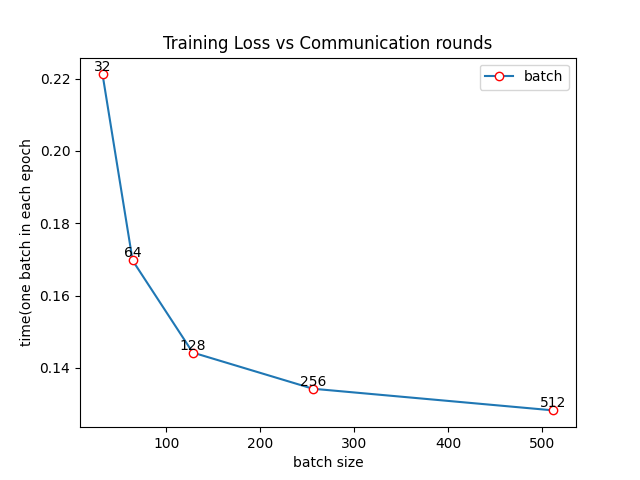
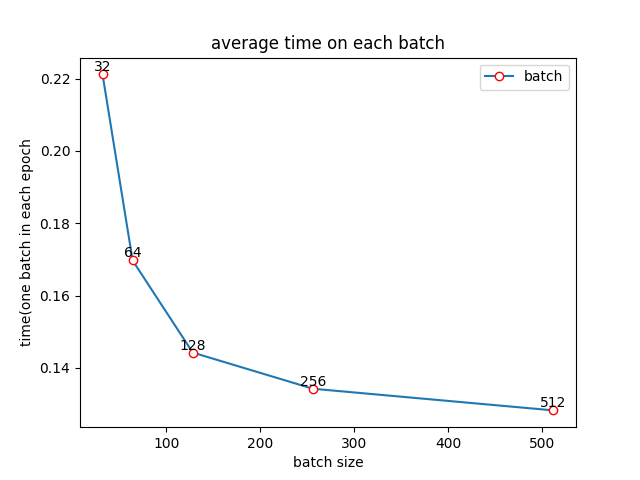
a

Changed region(s): [[0.25, 0.0625, 0.7812, 0.125]]

diff --git a/time/1.py b/time/1.py
@@ -49,27 +49,46 @@ with open(file_name_5, 'rb') as f5:
 #     [list_acc_3, list_loss_3, list_acc_4, list_loss_4] = pickle.load(f4)
 
 
-xlabels = [64-32, 128-64, 256-128, 512-256]
-# min_b = np.array([min(time_1), min(time_2), min(time_3), min(time_4), min(time_5)])
-# max_b = np.array([max(time_1), max(time_2), max(time_3), max(time_4), max(time_5)])
-ylabels = [(time_2[0] - time_1[0])/(64-32),(time_3[0] - time_2[0])/(128-64),(time_4[0] - time_3[0])/(256-128),(time_5[0] - time_4[0])/(512-256)]
+xlabels = [32,64, 128, 256, 512]
+# # min_b = np.array([min(time_1), min(time_2), min(time_3), min(time_4), min(time_5)])
+# # max_b = np.array([max(time_1), max(time_2), max(time_3), max(time_4), max(time_5)])
+ylabels = [time_1[0]*16, time_2[0]*8,time_3[0]*4,time_4[0]*2,time_5[0]]
 
-print(ylabels)
+# xlabels = [32, 64, 128, 256]
+# # min_b = np.array([min(time_1), min(time_2), min(time_3), min(time_4), min(time_5)])
+# # max_b = np.array([max(time_1), max(time_2), max(time_3), max(time_4), max(time_5)])
+# ylabels_1 = [0.127,0.131,0.161,0.222,0.339]
+# ylabels = [(0.131-0.127)/(64-32),(0.161-0.131)/(128-64),(0.222-0.161)/(256-128),(0.339-0.222)/(512-256)]
+# ylabels_2 = [0.103,0.142,0.097,0.088,0.090]
+
+# print(ylabels)
 plt.figure()
 
-plt.title('Training Loss vs Communication rounds')
+plt.title('average time on each batch')
+plt.vlines(xlabels, 0.12, ylabels, linestyle="dashed")
+# plt.hlines(ylabels, 0.12, xlabels, linestyle="dashed")
+#plt.scatter(xlabels, ylabels, zorder=2)
 plt.plot(xlabels, ylabels, marker='o', mec='r', mfc='w', label = "batch")
+#plt.plot(xlabels, ylabels_2, marker='+', mec='r', mfc='w', label = "batch_layer_2")
 # plt.plot(range(len(time_2)), time_2, "-", label = "batch_64")
 # plt.plot(range(len(time_3)), time_3, "-", label = "batch_128")
 # plt.plot(range(len(time_4)), time_4, "-", label = "batch_256")
 # plt.plot(range(len(time_5)), time_5, "-", label = "batch_512")
+# plt.scatter(x[0],[-0.25],s=25,c='r') # 标注最小值
+# plt.scatter([1.5],[-0.25],s=25,c='r') # 标注最小值
+# plt.xlim(0,None)
+plt.ylim(0.12,None)
 for a, b in zip(xlabels, ylabels):
     print(b)
-    plt.text(a,b,a, ha='center', va='bottom', fontsize=10)
+    plt.text(a,b,b, ha='center', va='bottom', fontsize=10)
+    plt.text(a,0.12,a, ha='center', va='bottom', fontsize=10)
+# for a, b in zip(xlabels, ylabels_2):
+#     print(b)
+#     plt.text(a,b,a, ha='center', va='bottom', fontsize=10)
 plt.legend()
 plt.ylabel('time(one batch in each epoch')
 plt.xlabel('batch size')
-plt.savefig('H:\\paper\\P-idea-1\\test_2\\time\\time_slope.png')
+plt.savefig('H:\\paper\\P-idea-1\\test_2\\time\\time_test.png')
 
 
 

diff --git a/time/hat_graph copy.py b/time/hat_graph copy.py
@@ -14,17 +14,13 @@ import matplotlib.pyplot as plt
 
 
 category_names = ['convolution_1', 'convolution_2', 'convolution_3', 'convolution_4', 'convolution_5', 'convolution_6', 'convolution_7', 'convolution_8']
-a = 0.195+ 0.179+ 0.142+0.183+ 0.221+ 0.357+0.312+0.311
-b = 0.228+0.178+0.166+0.24+0.245+0.359+0.330+0.329
-c = 0.3+0.6+0.2+0.3+0.24+0.38+0.37+0.37
-d = 0.529+1.196+0.381+0.545+0.373+0.597+0.571+0.575
-e = 0.96+1.106+1.7+1.03+0.631+1.001+0.953+0.954
+# c = 1.564+0.124+0.137+0.105+0.305+0.126+0.473+0.068+0.089+0.074+0.136+0.045+0.078+0.045+0.118+0.046+0.216+0.064+0.214+0.065+0.215+0.066+0.214+0.047+1.337+2.459
+# results = {
+#     'MobileNet': [1.564/c,0.124/c+0.137/c+0.105/c+0.305/c+0.126/c,0.473/c,0.068/c+0.089/c+0.074/c+0.136/c+0.045/c+0.078/c+0.045/c+0.118/c+0.046/c+0.216/c+0.064/c+0.214/c+0.065/c,0.215/c,0.066/c+0.214/c+0.047/c,1.337/c,2.459/c]
+# }
+c = 93+66.509+21.456+3.0+3.0+3.0+3.0+3.0
 results = {
-    'Batch size 32': [0.195/a, 0.179/a, 0.142/a, 0.183/a, 0.221/a, 0.357/a,0.312/a,0.311/a],
-    'Batch size 64': [0.228/b,0.178/b,0.166/b,0.24/b,0.245/b,0.359/b,0.330/b,0.329/b],
-    'Batch size 128': [0.3/c,0.6/c,0.2/c,0.3/c,0.24/c,0.38/c,0.37/c,0.37/c],
-    'Batch size 256': [0.529/d,1.196/d,0.381/d,0.545/d,0.373/d,0.597/d,0.571/d,0.575/d],
-    'Batch size 512': [0.96/e,1.106/e,1.7/e,1.03/e,0.631/e,1.001/e,0.953/e,0.954/e]
+    'ResNet18': [93/c,66.509/c,21.456/c,3.0/c,3.0/c,3.0/c,3.0/c,3.0/c]
 }
 # print(np.array(list(results.values())))
 # data_cum = np.array(list(results.values())).cumsum()
@@ -46,7 +42,7 @@ def survey(results, category_names):
     category_colors = plt.get_cmap('RdYlGn')(
         np.linspace(0.15, 0.85, data.shape[1]))
 
-    fig, ax = plt.subplots(figsize=(9.2, 8))
+    fig, ax = plt.subplots(figsize=(9.2, 27))
     ax.invert_yaxis()
     ax.xaxis.set_visible(False)
     ax.set_xlim(0, np.sum(data, axis=1).max())
@@ -54,7 +50,6 @@ def survey(results, category_names):
     for i, (colname, color) in enumerate(zip(category_names, category_colors)):
         widths = data[:, i]
         starts = data_cum[:, i] - widths
-        # print(widths)
         rects = ax.barh(labels, widths, left=starts, height=0.5,
                         label=colname, color=color)
 

diff --git a/Fahao_F/models/mobilenet.py b/Fahao_F/models/mobilenet.py
@@ -1,7 +1,7 @@
 import torch
 import torch.nn as nn
 import torch.nn.functional as F
-
+import pickle
 
 class Block(nn.Module):
     '''Depthwise conv + Pointwise conv'''
@@ -13,8 +13,14 @@ class Block(nn.Module):
         self.bn2 = nn.BatchNorm2d(out_planes)
 
     def forward(self, x):
-        out = F.relu(self.bn1(self.conv1(x)))
-        out = F.relu(self.bn2(self.conv2(out)))
+        conv_1 = self.conv1(x)
+        with open('/home/test_2/time/conv_1.pkl', 'wb') as f:
+            pickle.dump([conv_1], f)
+        out = F.relu(self.bn1(conv_1))
+        conv_2 = self.conv2(out)
+        with open('/home/test_2/time/conv_2.pkl', 'wb') as f:
+            pickle.dump([conv_2], f)
+        out = F.relu(self.bn2(conv_2))
         return out
 
 
